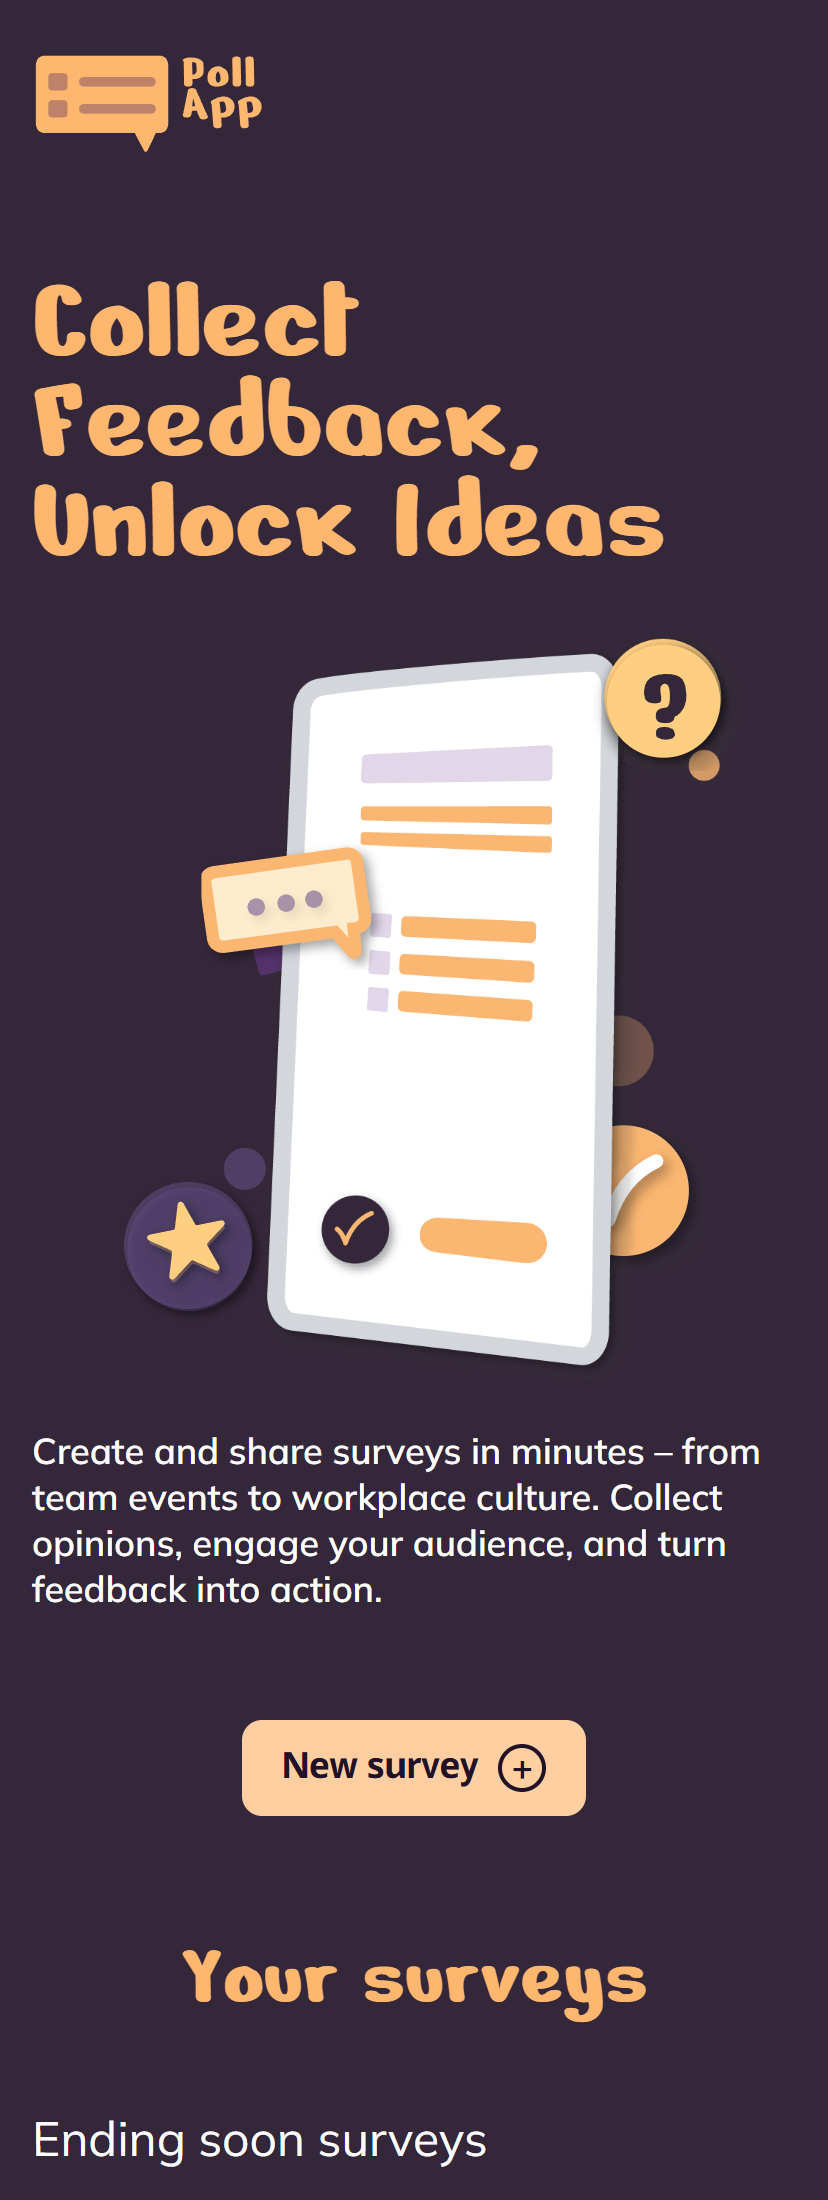
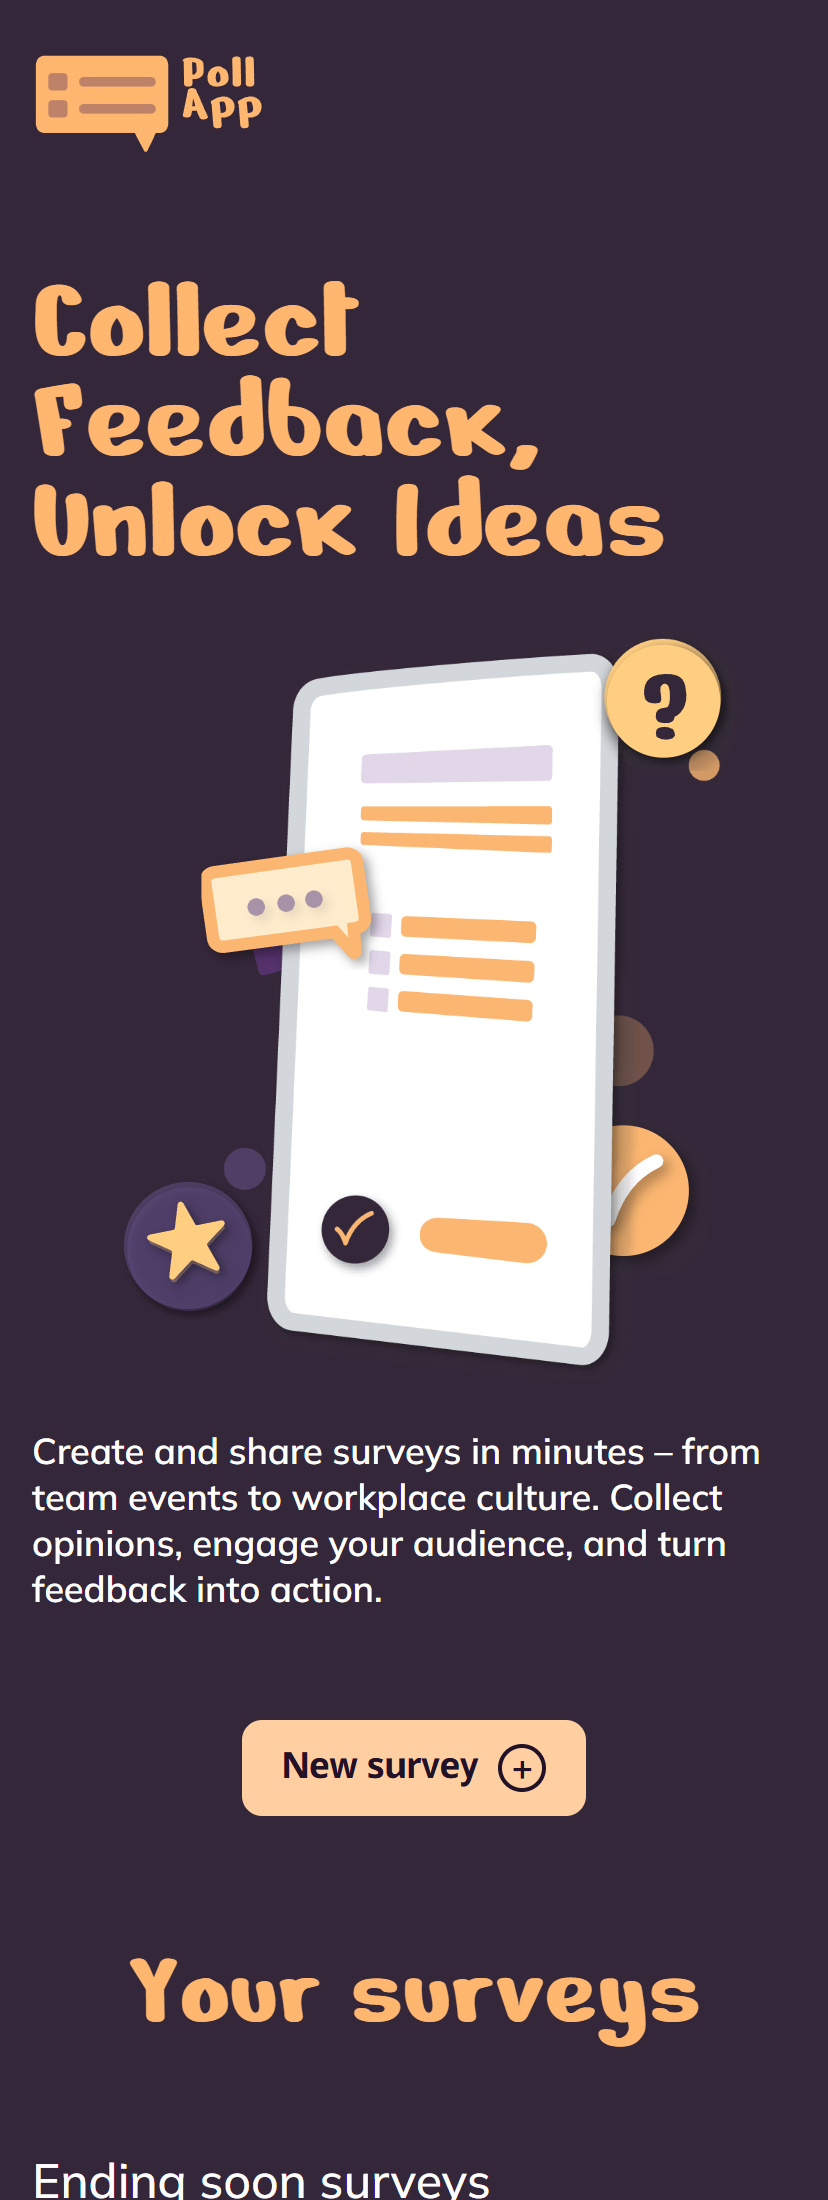
Build the surveys section for phones up to 768px following the design
- Headline 54px/65px Nerko One, spacing 48/48/24/16px as in the design
- "Ending soon" becomes a horizontal carousel: cards 250x233, the scroller
  reaches both screen edges, scroll snap, scrollbar hidden
- Tabs 106x23 in Nokora 14px/19px, category dropdown 206x32 right aligned
- List cards 147px tall, radius 5/50/5/5, category 16px in #FFCFA1,
  title 20px/25px, deadline badge in the bottom right

Changed region(s): [[0.0302, 0.9582, 0.6039, 1.0], [0.4227, 0.8964, 0.8454, 0.9273], [0.151, 0.8655, 0.3925, 0.9273]]

diff --git a/style/responsive.css b/style/responsive.css
@@ -106,28 +106,120 @@
     border-width: 2px;
   }
 
-  .survey-list,
-  .question-grid {
-    grid-template-columns: 1fr;
+  /* Abstände laut Design: 48px um die Highlights und die Filter,
+     24px vor der Liste, 16px innerhalb der Blöcke. */
+  .surveys {
+    gap: 0;
+  }
+
+  .surveys h2 {
+    font-size: 54px;
+    line-height: 65px;
+  }
+
+  .ending-soon {
+    margin-top: 48px;
+    gap: var(--space-sm);
+  }
+
+  .ending-soon h3 {
+    font-weight: 500;
+    font-size: 24px;
+    line-height: 30px;
+  }
+
+  /* Die Karten liegen in einem horizontalen Scroller, der bis an beide
+     Bildschirmränder reicht. */
+  .ending-soon-list {
+    flex-wrap: nowrap;
+    margin-inline: -16px;
+    padding-inline: 16px;
+    overflow-x: auto;
+    scroll-snap-type: x proximity;
+    scroll-padding-inline: 16px;
+    scrollbar-width: none;
+  }
+
+  .ending-soon-list::-webkit-scrollbar {
+    display: none;
   }
 
   .survey-card {
-    width: 100%;
-    min-height: auto;
+    flex: none;
+    width: 250px;
+    min-height: 233px;
+    padding: var(--space-md) var(--space-sm);
+    scroll-snap-align: start;
   }
 
-  .ending-soon-list {
-    flex-direction: column;
+  .survey-card .card-title {
+    font-weight: 700;
+    line-height: 30px;
   }
 
   .list-controls {
     flex-direction: column;
     align-items: stretch;
+    gap: 48px;
+    margin-top: 48px;
+  }
+
+  .tabs {
+    gap: var(--space-sm);
+  }
+
+  .tab {
+    height: 23px;
+    font-size: 14px;
+    line-height: 19px;
+  }
+
+  .category-filter {
+    align-self: flex-end;
   }
 
   .filter-trigger,
   .filter-menu {
-    width: 100%;
+    width: 206px;
+  }
+
+  .survey-list,
+  .question-grid {
+    grid-template-columns: 1fr;
+  }
+
+  .survey-list,
+  .survey-list-empty {
+    margin-top: var(--space-md);
+  }
+
+  .survey-list {
+    gap: var(--space-sm);
+  }
+
+  .survey-row {
+    justify-content: flex-end;
+    gap: var(--space-xs);
+    min-height: 147px;
+    padding: 12px var(--space-sm);
+    border-radius: var(--radius-sm) 50px var(--radius-sm) var(--radius-sm);
+    background: rgba(217, 217, 217, 0.08);
+  }
+
+  .survey-row .card-category {
+    font-weight: 500;
+    font-size: 16px;
+    line-height: 20px;
+    color: var(--color-primary-hover);
+  }
+
+  .survey-row .card-title {
+    font-size: 20px;
+    line-height: 25px;
+  }
+
+  .survey-row .card-deadline {
+    margin-top: var(--space-sm);
   }
 
   .overlay {
@@ -160,10 +252,6 @@
 }
 
 @media (max-width: 400px) {
-  h2 {
-    font-size: 36px;
-  }
-
   .hero h1 {
     font-size: 52px;
     line-height: 44px;
